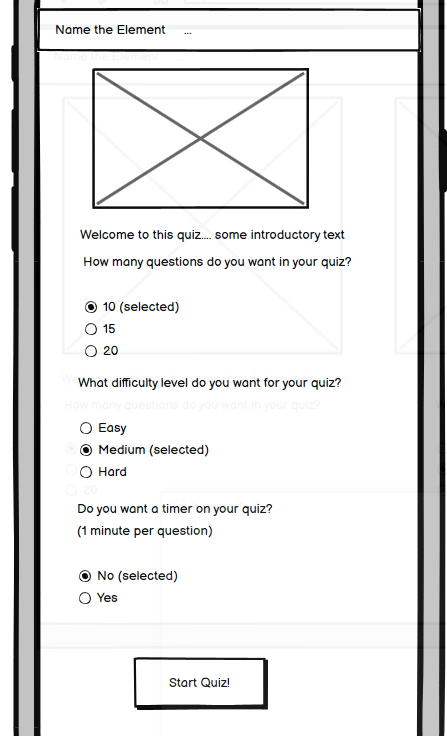
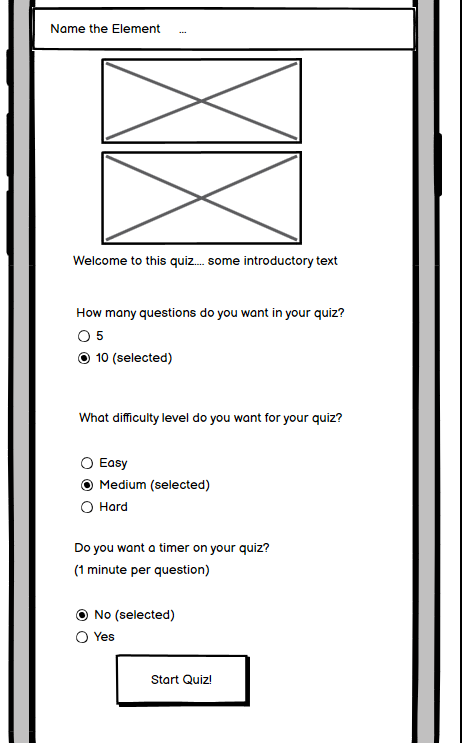
Updated wireframes and readme features

Changed region(s): [[0.0, 0.0, 1.0, 1.0], [0.1454, 0.4062, 0.7562, 0.9688], [0.3781, 0.25, 0.4944, 0.2812]]

diff --git a/README.md b/README.md
@@ -120,10 +120,10 @@ the difficulty level of the quiz they want and if they want it to be a timed qui
 
 * The home page will contain a start button for the user to start the quiz using the options they selected above.
 
-* The quiz page will display clear feedback to the user after each question in terms of text and colour.
+* The quiz page will display clear feedback to the user after each question.
 
 * The quiz page will display a users score/progress in terms of a progress bar 
-with diffierent colours to represent correct/incorrect answers.
+with different colours to represent correct/incorrect answers.
 
 * The quiz page will clearly display what question the user is on, how many they have answered and how many are left to complete.
 
@@ -132,6 +132,8 @@ restart the current quiz questions again or to the home page and reselect the op
 
 * The feedback page will show all the questions in the quiz, along with if the user got this correct or not.
 If correct it will display the correct answer and if wrong it will display the users answer and the correct one.
+
+* The feedback page will show how many questions the user answered, the number correct and incorrect (with percentages).
 
 * The feedback page will have a play again button to take the user to the home page.
 
@@ -149,11 +151,12 @@ The quiz page will contain a bar showing the question the user is currently on, 
 Below this will be the question along with 4 multiple choice options, and below a submit button. 
 Below the submit button is where user feedback will be displayed if they answered correctly or not. 
 Once the user has clicked submit this button will disappear and there will be a next question button in it's place.
-Below any feedback will be the progress bar showing the number of correct and incorrect answers.
+Below any feedback will be the progress bar showing the percentage of correct and incorrect answers.
 Finally at the bottom there will be 2 buttons to allow the user to reselect their quiz options (go to the home page) or
 to start the current quiz questions again.
 
-The feedback page will contain all the questions in the quiz, along with if the user got this correct or not.
+The feedback page will show how many questions the user answered, the number correct and incorrect (with percentages). 
+The feedback page will also contain all the questions in the quiz, along with if the user got this correct or not.
 If correct it will display the correct answer and if wrong it will display the users answer and the correct one.
 At the bottom the feedback page will have a play again button to take the user to the home page.
 
@@ -206,7 +209,10 @@ Desktop
 
 #### Wireframes Comments
 
-Please not there are a few changes to the final site since the wireframes were made:
+Please note there are a few changes to the final site since the wireframes were made:
+
+  * The quiz page contains the image of the periodic table of elements from the home page, this gives users a reference when answering the questions.
+  * The feedback page contains the image of the periodic table of elements from the home page.
 
 ### Surface
 
@@ -230,7 +236,24 @@ a website that a user of any age would like to use.
 
 * Responsive on mobile, tablet and laptop size devices.
 
-* Add to here when complete.
+* The home page shows an image of the periodic table of elements and also an image example of a question and the multiple choice options for the user to choose from.
+This makes the purpose of the site clear to the user and lets them know what to expect.
+
+* On the home page the user can pick number of questions and difficulty level.
+The user can pick if there is a timer on the quiz or not. After selecting options the user can start the quiz.
+
+* The quiz page has multiple features:
+  * Contains the image of the periodic table of elements from the home page, this gives users a reference when answering the questions.
+  * Shows the user what question they are on, how many they have completed and how many are left.
+  * Shows the current question and its options, the order of questions is randomized.
+  * Contains submit and next question buttons allowing the user to progress through the quiz questions (only one button is shown at a time).
+  * After submitting an answer for each question the user is provided with feedback in text form.
+  * After submitting an answer for each question the progress bar is updated showing the percentage of correct/incorrect answers so far.
+  * Contains buttons allowing the user to restart the current quiz questions again or to the home page and reselect the options for their quiz.
+
+* At the end of the quiz:
+  * Overall feedback is displayed showing how many questions the user answered, the number correct and incorrect (with percentages).
+  * Play again button which will take the user to the home page.
 
 ### Features Left to Implement
 
